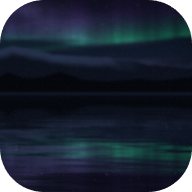
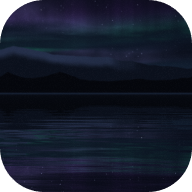
배경 '한강'→'도시'(산·빌딩 숲 두 겹·해 쪽 벽 음영·창문 불빛·다리 위 차·비행기), 등대 불빛은 좌/우 상태로 4~10분마다 천천히 회전, 달 번짐 제거, 구름이 흐르며 생기고 흩어지게

Changed region(s): [[0.0, 0.7188, 1.0, 0.875], [0.0, 0.125, 1.0, 0.2812]]

diff --git a/index.html b/index.html
@@ -187,7 +187,7 @@ const rippleTau = s => SCENE.rippleTau[0] + SCENE.rippleTau[1] * s;
 const BGS = [
   { id: 'neon', name: '네온 호수', bg: 0, calm: 0.035, cover: 1.0, icon: 'assets/bg-neon.png',
     night: { zen: [0.04, 0.04, 0.10], mid: [0.13, 0.12, 0.29], hor: [0.42, 0.29, 0.55], cld: [0.10, 0.05, 0.12], haze: [0.24, 0.18, 0.38], deep: [0.016, 0.045, 0.088] } },
-  { id: 'han', name: '한강', bg: 1, calm: 0.05, cover: 0.85, icon: 'assets/bg-han.png',
+  { id: 'city', name: '도시', bg: 1, calm: 0.05, cover: 0.85, icon: 'assets/bg-city.png',
     night: { zen: [0.03, 0.03, 0.07], mid: [0.12, 0.10, 0.17], hor: [0.36, 0.25, 0.27], cld: [0.12, 0.07, 0.06], haze: [0.24, 0.18, 0.21], deep: [0.014, 0.03, 0.05] } },
   { id: 'lighthouse', name: '등대 바다', bg: 2, calm: 0.11, cover: 0.8, icon: 'assets/bg-lighthouse.png',
     night: { zen: [0.015, 0.02, 0.05], mid: [0.05, 0.06, 0.12], hor: [0.12, 0.14, 0.22], cld: [0.03, 0.03, 0.05], haze: [0.10, 0.12, 0.18], deep: [0.008, 0.02, 0.04] } },
@@ -263,6 +263,19 @@ function skyTarget() {
   return P;
 }
 let SKY = null;
+// 등대 불빛: 평소엔 한쪽(오른쪽/왼쪽)을 비추고, 4~10분에 한 번 약 8초 동안 이쪽을 지나 반대쪽으로 돌아감
+const BEAM_R = 0.35, BEAM_L = -Math.PI + 0.35;
+const beam = { side: 1, ph: BEAM_R, from: BEAM_R, t: -1, next: rand(240, 600) };
+function updateBeam(dt) {
+  beam.next -= dt;
+  if (beam.t < 0 && beam.next <= 0) { beam.side = -beam.side; beam.from = beam.ph; beam.t = 0; beam.next = rand(240, 600); }
+  if (beam.t >= 0) {
+    beam.t += dt / 8;
+    const to = beam.side > 0 ? BEAM_R : BEAM_L, e = sstep(0, 1, Math.min(1, beam.t));
+    beam.ph = beam.from + (to - beam.from) * e;
+    if (beam.t >= 1) beam.t = -1;
+  }
+}
 function updateSky(dt) {
   const T = skyTarget();
   if (!SKY) { SKY = T; return; }
@@ -337,7 +350,7 @@ vec3 decor(vec2 pr){
 // ---------- 하늘: 시간대(해·달·하늘색)와 배경(uBg)은 JS가 유니폼으로 넘김 ----------
 // 해·달 방향은 실제 고도·방위를 화면에 맞게 눌러 담은 것(남쪽을 보고 있음: 왼쪽 동, 오른쪽 서)
 uniform vec3 uZen, uMid, uHor, uCld, uHazeC, uGlowC, uSunD, uSunC, uMoonD;
-uniform float uMoonPh, uMoonL, uNight, uDay, uCover;
+uniform float uMoonPh, uMoonL, uNight, uDay, uCover, uBeam;
 uniform int uBg;
 // 해·달·별·은하수·오로라: 구름에 가려지는 것들
 vec3 celestial(vec3 d){
@@ -376,7 +389,7 @@ vec3 celestial(vec3 d){
       float k=cos(6.2831853*uMoonPh), sx=uMoonPh<0.5?p.x:-p.x;
       float lit=smoothstep(-0.06,0.06,sx-k*sqrt(max(0.0,1.0-p.y*p.y)));
       float mare=0.8+0.2*vnoise(p*2.6+3.0);
-      c+=vec3(1.0,0.97,0.88)*(lit*mare*1.5+0.03)*smoothstep(1.0,0.88,sqrt(r2))*uMoonL;
+      c+=vec3(1.0,0.97,0.88)*(lit*mare*0.95+0.025)*smoothstep(1.0,0.88,sqrt(r2))*uMoonL;
     }
   }
   return c;
@@ -389,48 +402,81 @@ vec3 bgNeon(vec3 d, vec2 pr, vec3 c){
   float q=max(dot(d,LD2),0.0); c+=vec3(1.0,0.70,0.28)*(0.38*pow(q,60.0)+0.4*pow(q,500.0))*nl;
   return c;
 }
-// 배경 2: 한강 — 강 건너 빌딩 숲, 남산과 타워, 높은 타워, 아치 다리와 가로등
-vec3 bgHan(float a, float h, float px, vec3 c){
-  float hill=0.026*exp(-pow((a-0.2)/0.075,2.0))+0.012*exp(-pow((a+0.47)/0.12,2.0));
-  const float WA=0.0105;
-  float id=floor(a/WA), hh=hash21(vec2(id,3.1)), bx=fract(a/WA);
-  float hb=0.007+0.03*hh*hh*(0.6+0.8*exp(-pow(a/0.35,2.0)));
-  if(hash21(vec2(id,7.7))>0.9) hb+=0.016;
-  if(bx<0.06||bx>0.94) hb*=0.55;
-  float lt=abs(a+0.30), ltW=0.0075*(1.0-clamp(h/0.118,0.0,1.0))+0.0006;
-  float inLt=(h<0.118&&lt<ltW)?1.0:0.0;
-  float ns=abs(a-0.2), inNs=0.0;
-  if(ns<0.0011&&h<0.066) inNs=1.0;
-  if(abs(h-0.052)<0.0035&&ns<0.0042) inNs=1.0;
-  if(ns<0.0004&&h<0.08) inNs=1.0;
-  float inB=smoothstep(px,0.0,h-max(hb,hill));
-  float m=max(inB,max(inLt,inNs));
-  if(m>0.0){
-    vec3 sc=mix(mix(vec3(0.012,0.014,0.03),vec3(0.24,0.26,0.30),uDay),uHor,0.3+0.25*uDay);
-    if(h<hb&&h>0.0015){
-      vec2 wg=vec2(a/0.0017,h/0.0019), wi=floor(wg), wf=fract(wg);
-      float on=step(0.62,hash21(wi+id*3.1));
-      float win=step(0.25,wf.x)*step(wf.x,0.75)*step(0.3,wf.y)*step(wf.y,0.8);
-      sc+=(hash21(wi+7.0)<0.7?vec3(1.0,0.78,0.48):vec3(0.75,0.85,1.0))*on*win*0.55*uNight;
-    }
-    if(inLt>0.5) sc+=vec3(0.75,0.85,1.0)*0.22*uNight*step(0.5,fract(h*180.0));
-    c=mix(c,sc,m);
+// 배경 2: 도시 — 멀리서부터 산 능선 · 먼 빌딩 숲 · 가까운 빌딩 숲 · 다리(달리는 차 불빛) 순으로 겹친 3D 원경.
+// 멀수록 대기에 묻혀 흐리고, 낮에는 해가 비추는 쪽 벽이 밝고 반대쪽이 어두움. 밤에는 층마다 다른 창문 불빛
+// 건물 한 겹: 셀마다 폭·높이·지붕이 다른 건물(이웃 셀과 겹침). 반환 (지붕 높이 | 없으면 -1, 왼쪽 끝, 폭, id)
+vec4 skyline(float a, float W, float hMin, float hMax, float seed){
+  vec4 best=vec4(-1.0,0.0,1.0,0.0);
+  float id0=floor(a/W);
+  for(int k=-1;k<=1;k++){
+    float id=id0+float(k);
+    float r1=hash21(vec2(id,seed)), r2=hash21(vec2(id,seed+1.7)), r3=hash21(vec2(id,seed+3.1)), r4=hash21(vec2(id,seed+5.3));
+    float cx=(id+0.5+(r2-0.5)*0.7)*W, hw=W*(0.28+0.55*r3);
+    float u=abs(a-cx)/hw;
+    if(u>1.0) continue;
+    float H=hMin+(hMax-hMin)*pow(r1,2.4)*(0.55+0.45*exp(-a*a/0.12));
+    if(r4>0.62&&u>0.55) H*=0.84;                 // 위층이 좁아지는 계단식
+    if(r4>0.9&&u<0.07) H+=W*1.4;                 // 옥상 안테나
+    if(r4<0.12) H-=hw*u*0.5;                     // 비스듬한 지붕
+    if(H>best.x) best=vec4(H,cx-hw,2.0*hw,id);
   }
-  c+=vec3(0.6,0.8,1.0)*uNight*1.2*exp(-(pow(a+0.30,2.0)+pow(h-0.119,2.0))/0.000004);
-  c+=vec3(1.0,0.45,0.75)*uNight*0.9*exp(-(pow(a-0.2,2.0)+pow(h-0.052,2.0))/0.00001);
-  c+=vec3(1.0,0.2,0.2)*uNight*exp(-(pow(a-0.2,2.0)+pow(h-0.081,2.0))/0.0000015)*(0.6+0.4*sin(uTime*3.0));
-  c+=vec3(1.0,0.55,0.32)*0.10*uNight*exp(-h*45.0);
-  // 다리
-  const float DK=0.0032;
-  float sg=(a+0.62)/0.13, seg=fract(sg);
-  float arch=DK+0.011*sin(3.14159*seg);
-  float onArch=smoothstep(px*1.3,0.0,abs(h-arch))*step(DK,h);
-  float inDk=step(DK,h)*step(h,DK+0.0012);
-  float pier=step(abs(fract(sg+0.5)-0.5)*0.13,0.0012)*step(h,DK);
-  c=mix(c,mix(vec3(0.02,0.022,0.04),vec3(0.3,0.31,0.34),uDay),max(max(inDk,onArch*0.9),pier));
-  float lx=(fract(a/0.009)-0.5)*0.009, ly=h-DK-0.0016;
-  c+=vec3(1.0,0.8,0.5)*exp(-(lx*lx+ly*ly)/(px*px*0.7))*uNight*0.9;
-  c+=vec3(0.5,0.75,1.0)*onArch*uNight*0.5;
+  return best;
+}
+vec3 facade(vec4 b, float a, float h, float far, float winW, float winH, vec3 c0){
+  float lx=(a-b.y)/b.z, sp=0.3+0.4*hash21(vec2(b.w,9.1));
+  float sunL=uSunD.x<0.0?1.0:0.0;                                   // 해가 왼쪽(동)이면 왼쪽 벽이 밝음
+  float lit=lx<sp?mix(0.55,1.0,sunL):mix(1.0,0.55,sunL);
+  vec3 day=mix(vec3(0.20,0.22,0.27),vec3(0.36,0.37,0.40),hash21(vec2(b.w,2.2)))*(0.55+0.45*lit);
+  day+=uSunC*0.06*lit;
+  vec3 col=mix(vec3(0.010,0.012,0.026)*(0.8+0.4*lit),day,uDay);
+  // 창문: 건물마다 격자가 따로(건물 경계를 넘지 않음), 층마다 켜진 방이 다름
+  float nx=max(2.0,floor(b.z/winW));
+  vec2 g=vec2(lx*nx,h/winH), gi=floor(g), gf=fract(g);
+  float isWin=step(0.22,gf.x)*step(gf.x,0.78)*step(0.25,gf.y)*step(gf.y,0.75)*step(1.0,gi.y)*step(h,b.x-winH*0.8);
+  float office=step(0.6,hash21(vec2(b.w,4.4)));
+  float on=step(office>0.5?0.35:0.6,hash21(gi+b.w*7.13));
+  vec3 wc=office>0.5?vec3(0.78,0.88,1.0):(hash21(gi+3.3)<0.75?vec3(1.0,0.76,0.45):vec3(1.0,0.9,0.75));
+  col+=wc*isWin*on*(0.5+0.25*hash21(gi+1.9))*smoothstep(0.15,0.6,uNight);
+  col+=vec3(0.5,0.55,0.6)*isWin*0.05*uDay;                         // 낮: 유리에 비친 하늘
+  return mix(col,c0,far);                                           // 대기 원근
+}
+vec3 bgCity(float a, float h, float px, vec3 c){
+  // 1) 도시 뒤 먼 산
+  float hm=0.016+0.02*fbm(vec2(a*4.0,9.0))+0.008*vnoise(vec2(a*16.0,2.0));
+  c=mix(c,mix(mix(vec3(0.02,0.025,0.05),vec3(0.30,0.34,0.42),uDay),uHor,0.62),smoothstep(px,0.0,h-hm));
+  // 2) 먼 빌딩 숲 + 랜드마크 타워
+  vec4 b1=skyline(a,0.0085,0.006,0.05,1.0);
+  float tw=abs(a+0.28), twW=0.0068*(1.0-clamp(h/0.115,0.0,1.0))+0.0005;
+  if(h<0.115&&tw<twW&&h>b1.x){ b1=vec4(0.115,-0.28-0.0068,0.0136,77.0); }
+  if(h<b1.x+px) c=mix(c,facade(b1,a,h,0.42,0.0017,0.0021,uHor),smoothstep(px,0.0,h-b1.x));
+  // 3) 가까운 빌딩 숲(더 크고 진함)
+  vec4 b2=skyline(a,0.016,0.004,0.032,2.0);
+  if(h<b2.x+px) c=mix(c,facade(b2,a,h,0.16,0.0021,0.0026,uHor),smoothstep(px,0.0,h-b2.x));
+  // 옥상 항공장애등(높은 건물만, 함께 깜빡임)
+  float bl=step(0.5,fract(uTime*0.5));
+  if(b1.x>0.042){ float dx=a-(b1.y+b1.z*0.5), dy=h-b1.x-0.0008; c+=vec3(1.0,0.12,0.1)*exp(-(dx*dx+dy*dy)/(px*px*0.8))*bl*(0.3+0.9*uNight); }
+  c+=vec3(0.6,0.8,1.0)*(0.3+0.9*uNight)*exp(-(pow(a+0.28,2.0)+pow(h-0.116,2.0))/(px*px*1.5))*(0.6+0.4*sin(uTime*2.0));
+  // 4) 다리: 상판과 낮은 주탑, 양방향으로 달리는 차 불빛
+  const float DK=0.0026;
+  float inDk=step(DK,h)*step(h,DK+0.0010);
+  float py=fract((a+0.62)/0.11);
+  float pyl=step(abs(py-0.5)*0.11,0.0007)*step(h,DK+0.006)+step(abs(py-0.5)*0.11,0.0011)*step(h,DK);
+  c=mix(c,mix(vec3(0.015,0.017,0.03),vec3(0.28,0.29,0.31),uDay),clamp(inDk+pyl,0.0,1.0));
+  float lx=(fract(a/0.008)-0.5)*0.008, ly=h-DK-0.0014;
+  c+=vec3(1.0,0.78,0.48)*exp(-(lx*lx+ly*ly)/(px*px*0.6))*uNight*0.8;
+  float car1=a-uTime*0.006, car2=a+uTime*0.0075;                    // 오른쪽으로 가는 전조등, 왼쪽으로 가는 미등
+  float i1=floor(car1/0.035), i2=floor(car2/0.03);
+  float d1=(fract(car1/0.035)-hash21(vec2(i1,5.0))*0.8-0.1)*0.035, d2=(fract(car2/0.03)-hash21(vec2(i2,6.0))*0.8-0.1)*0.03;
+  float cy=h-DK-0.0013;
+  c+=vec3(1.0,0.95,0.85)*exp(-(d1*d1)/(px*px*0.5)-cy*cy/(px*px*0.25))*step(0.3,hash21(vec2(i1,2.0)))*(0.25+0.9*uNight);
+  c+=vec3(1.0,0.15,0.1)*exp(-(d2*d2)/(px*px*0.5)-cy*cy/(px*px*0.25))*step(0.3,hash21(vec2(i2,3.0)))*(0.2+0.8*uNight);
+  // 5) 도시 불빛이 낮은 하늘을 물들임 + 이따금 지나가는 비행기
+  c+=vec3(1.0,0.55,0.32)*0.09*uNight*exp(-h*40.0);
+  float ft=fract(uTime/150.0), fx=-0.75+ft*1.5, fy=0.105-0.03*ft;
+  vec2 fd=vec2(a-fx,h-fy);
+  float st=step(0.92,fract(uTime*0.8));
+  c+=(vec3(1.0,0.2,0.15)*exp(-dot(fd+vec2(0.0015,0.0),fd+vec2(0.0015,0.0))/(px*px*0.6))
+     +vec3(1.0)*st*exp(-dot(fd,fd)/(px*px*0.9))*2.0)*(0.25+0.75*uNight);
   return c;
 }
 // 배경 3: 장엄한 바다 — 오른쪽 바위 곶 위 등대, 회전하는 불빛, 먼 배
@@ -457,7 +503,7 @@ vec3 bgLight(float a, float h, float px, vec3 c){
     c=lc;
   }
   vec2 L=vec2(LX,lb+LTH+0.0034), q=vec2(a,h)-L;
-  float ph=uTime*0.75, cb=cos(ph), sb=sin(ph), bs=(0.2+0.8*uNight)*(1.0-0.7*uDay);
+  float ph=uBeam, cb=cos(ph), sb=sin(ph), bs=(0.2+0.8*uNight)*(1.0-0.7*uDay);   // 오른쪽 0.35, 왼쪽 -π+0.35, 옮길 땐 이쪽(번쩍)을 지나 돎
   float al=q.x*sign(cb);
   if(al>0.0){
     float w=0.002+al*0.09, pp=q.y-al*0.015, ln=0.03+0.9*abs(cb);
@@ -496,20 +542,25 @@ vec3 sky(vec3 d){
   float sd=max(dot(d,uSunD),0.0);
   c+=uSunC*(0.08*pow(sd,8.0)+0.3*pow(sd,90.0));
   float md=max(dot(d,uMoonD),0.0), lf=0.5-0.5*cos(6.2831853*uMoonPh);
-  c+=vec3(0.7,0.76,0.95)*uMoonL*lf*(0.06*pow(md,40.0)+0.14*pow(md,400.0));
+  c+=vec3(0.7,0.76,0.95)*uMoonL*lf*0.06*pow(md,2500.0);          // 달 바로 둘레만 아주 옅게
   if(d.y>0.0){
-    vec2 cp=d.xz/(d.y+0.06)*0.55-vec2(uTime*0.0015,0.0);          // 거의 멈춘 듯 아주 느리게 흐르는 구름
+    // 구름층(하늘 높이의 평면)이 바람에 실려 천천히 흘러오고(오른쪽으로, 이쪽으로), 모양은 서서히 생기고 흩어짐
+    vec2 cp=d.xz/(d.y+0.06)*0.55+vec2(-0.010,0.006)*uTime;
+    vec2 wp=vec2(vnoise(cp*0.7+uTime*0.006),vnoise(cp*0.7+7.3-uTime*0.005));
+    cp+=wp*0.7;
     float cl=fbm(cp)*0.75+fbm(cp*2.7+5.0)*0.25;
+    float cs=fbm(cp+normalize(uSunD.xz+vec2(0.0,1e-4))*0.12);        // 해 쪽으로 옮긴 곳이 더 얇으면 그쪽 면이 밝음
     float s=smoothstep(0.3,0.75,cl), hz=1.0-smoothstep(0.0,0.35,e);
     float cov=clamp((cl-(0.62-0.4*uCover))/0.14,0.0,1.0);
     c+=celestial(d)*(1.0-cov*0.92);
     c*=mix(1.0,0.72+0.6*s,uCover);
     c+=uCld*hz*s+uSunC*0.12*pow(sd,6.0)*s*uCover;
+    c*=1.0+clamp((cl-cs)*2.5,-0.3,0.35)*s*uCover*(0.4+0.6*uDay);
   }
   if(d.z>0.05){
     float a=d.x/d.z, h=d.y/d.z, px=1.3/uF;
     if(uBg==0) c=bgNeon(d,vec2(uCx+uF*a,uY0-uF*h),c);
-    else if(uBg==1) c=bgHan(a,h,px,c);
+    else if(uBg==1) c=bgCity(a,h,px,c);
     else if(uBg==2) c=bgLight(a,h,px,c);
     else c=bgDream(a,h,px,c);
   }
@@ -669,7 +720,7 @@ void main(){
     float hz=1.0-exp(-Z*0.0035);
     col=mix(col,uHazeC,hz*0.45);
   }
-  col+=uHazeC*1.1*exp(-dy*dy/2.4);
+  col+=uHazeC*1.1*exp(-dy*dy/2.4)*mix(1.0,0.3,uDay);   // 수평선의 옅은 빛띠(낮엔 약하게)
   col+=(hash21(gl_FragCoord.xy+uTime)-0.5)/255.0;
   o=vec4(clamp(col,0.0,1.0),1.0);
 }`;
@@ -684,7 +735,7 @@ void main(){
   float yp=uCanvas.y-fc.y, dy=yp-uY0d;
   float iz=dy>0.0?dy/uFHd:0.0;                                    // 1/거리
   const float IZF=0.35;
-  float coc=(iz<IZF?(IZF-iz)*12.0:(iz-IZF)*3.0)*uDpr;
+  float coc=(iz<IZF?(IZF-iz)*4.0:(iz-IZF)*3.0)*uDpr;   // 먼 배경(하늘·달·도시)은 거의 또렷하게
   coc=min(coc,8.0*uDpr);
   vec3 acc=texture(uScene,uv).rgb, bl=vec3(0.0); float ws=1.0;
   for(int i=0;i<16;i++){
@@ -1578,7 +1629,7 @@ function commonUniforms(p, t) {
     const nrm = v => { const l = Math.hypot(v[0], v[1], v[2]); return [v[0] / l, v[1] / l, v[2] / l]; };
     v3('uZen', SKY.zen); v3('uMid', SKY.mid); v3('uHor', SKY.hor); v3('uCld', SKY.cld); v3('uHazeC', SKY.haze); v3('uGlowC', SKY.glow);
     v3('uDeepC', SKY.deep); v3('uSunC', SKY.sunC); v3('uSunD', nrm(SKY.sunD)); v3('uMoonD', nrm(SKY.moonD));
-    v1('uMoonPh', SKY.moonPh); v1('uMoonL', SKY.moonL); v1('uNight', SKY.night); v1('uDay', SKY.day); v1('uCover', BG.cover);
+    v1('uMoonPh', SKY.moonPh); v1('uMoonL', SKY.moonL); v1('uNight', SKY.night); v1('uDay', SKY.day); v1('uCover', BG.cover); v1('uBeam', beam.ph);
     if (p.u.uBg) gl.uniform1i(p.u.uBg, BG.bg);
   }
 }
@@ -1763,7 +1814,7 @@ let last = performance.now(), manual = false, fpsAcc = 0, fpsN = 0, fps = 60, sl
 const T0 = performance.now();
 function step(dt) {
   simT += dt;
-  updateSky(dt);
+  updateSky(dt); updateBeam(dt);
   if (!manual) analyze(dt);
   const target = analyser ? clamp(soundLvl / 8, 0, 1) : 0;   // 조용해지면 비가 그침
   rainAmt += (target - rainAmt) * (1 - Math.exp(-dt / (target > rainAmt ? 0.25 : 0.9)));
@@ -1814,7 +1865,7 @@ function tileRow(el, list, onPick) {
 }
 function markOn(el, id) { el.querySelectorAll('[data-id]').forEach(b => b.classList.toggle('on', b.dataset.id === id)); }
 function setScene(id) { const sc = SCENES.find(x => x.id === id); if (!sc) return; SCENE = sc; markOn($('scenes'), sc.id); }
-function setBg(id) { const b = BGS.find(x => x.id === id); if (!b) return; BG = b; markOn($('bgs'), b.id); }
+function setBg(id) { if (id === 'han') id = 'city'; const b = BGS.find(x => x.id === id); if (!b) return; BG = b; markOn($('bgs'), b.id); }
 function setTod(id) { const t = TODS.find(x => x.id === id); if (!t) return; TOD = t; markOn($('tods'), t.id); dialT = 0; }
 tileRow($('bgs'), BGS, setBg);
 tileRow($('scenes'), SCENES, setScene);
@@ -1982,7 +2033,7 @@ autoStart();
 // 테스트용 훅
 window.RK = {
   splash: (fx, Z, e, reg) => { const X = (fx * W - cx) * Z / f; splash(X, Z, e, 200, 0, reg); },
-  spawnNote, drizzle: (m, lv) => spawnDrizzle(m, lv), hitLog, get capT0() { return capT0; }, get started() { return started; }, get hits() { return hitCount; }, get gl() { return glReady; }, get fps() { return fps; },
+  beam, spawnNote, drizzle: (m, lv) => spawnDrizzle(m, lv), hitLog, get capT0() { return capT0; }, get started() { return started; }, get hits() { return hitCount; }, get gl() { return glReady; }, get fps() { return fps; },
   manual(on) { manual = on; }, step(n, dt) { for (let i = 0; i < n; i++) step(dt); draw(); },
   clear() { drops.length = parts.length = crowns.length = jets.length = craters.length = bubbles.length = floaters.length = flashes.length = timers.length = EV.length = 0; rainS.length = 0; },
   dump: () => ({ jets: jets.map(j => [+j.t.toFixed(2), +jetLen(j).toFixed(3), j.det, +j.vy.toFixed(2)]), crowns: crowns.map(c => [+c.t.toFixed(2), c.life.toFixed(2)]), craters: craters.length, bub: bubbles.length, drops: drops.length, parts: parts.filter(p => !(p.Y > -1 && p.Y < 5)).length }),

diff --git a/README.md b/README.md
@@ -14,7 +14,7 @@
 
 | 항목 | 뜻 |
 |---|---|
-| 배경 | **네온 호수** · **한강**(빌딩 숲·남산타워·아치 다리) · **등대 바다**(바위 곶 위 회전하는 등대 불빛) · **오로라 호수**(설산·은하수·오로라, 낮엔 무지개) |
+| 배경 | **네온 호수** · **도시**(산 능선·먼 빌딩 숲과 가까운 빌딩 숲·랜드마크 타워·다리 위 달리는 차·이따금 지나가는 비행기) · **등대 바다**(바위 곶 위 등대. 불빛은 한쪽을 비추다가 4~10분에 한 번 반대쪽으로 천천히 돎) · **오로라 호수**(설산·은하수·오로라, 낮엔 무지개) |
 | 시간대 | **실시간**(기본: 지금 시각 그대로 해와 달이 실제처럼 뜨고 짐, 달은 오늘의 실제 위상) · 새벽 · 아침 · 황혼 · 밤. 작은 하늘 그림에 해·달 위치와 오늘 해의 길, 일출·일몰 시각이 보여요 |
 | 비 효과 | **잔잔한 비**(기본, 방울마다 매끈한 고리 1~2개) · **물결 가득**(촘촘한 파문이 오래 퍼짐). 예전 `/v1/` 주소는 물결 가득으로 열려요 |
 | 곡 분위기 | 아주 조용 ~ 아주 시끄러움 5단계 막대. 조용한 곡일수록 여린 음까지 빗방울이 돼요 |
@@ -22,7 +22,7 @@
 | 건반 표시 · 저사양 | 저사양은 해상도와 입자 수를 줄입니다. 휴대폰은 자동으로 켜지고, 3초 이상 40fps 미만이면 자동 전환 |
 | 단축키 | H 화면만 보기 · F 전체화면 · S 설정 · Esc 닫기 |
 
-설정은 이 브라우저에 저장됩니다. 휴대폰에서는 설정이 아래에서 올라오는 시트로 열려요. 주소에 `?bg=han&time=dusk&scene=lively`처럼 배경·시간대·비 효과를 지정할 수도 있어요.
+설정은 이 브라우저에 저장됩니다. 휴대폰에서는 설정이 아래에서 올라오는 시트로 열려요. 주소에 `?bg=city&time=dusk&scene=lively`처럼 배경·시간대·비 효과를 지정할 수도 있어요.
 
 배경(`BGS`)·시간대(`TODS`)·비 효과(`SCENES`)는 각각 `index.html`의 목록 한 항목이고, 설정 카드의 타일도 이 목록에서 만들어져요. 새 배경은 항목과 셰이더의 `bg…()` 함수 하나, 눈·바람 같은 효과는 `SCENES` 항목과 그 값을 읽는 부분만 더하면 됩니다. 해·달 위치는 위도 37.5°(한국 표준시면 서울 경도) 기준으로 계산해요.
 
